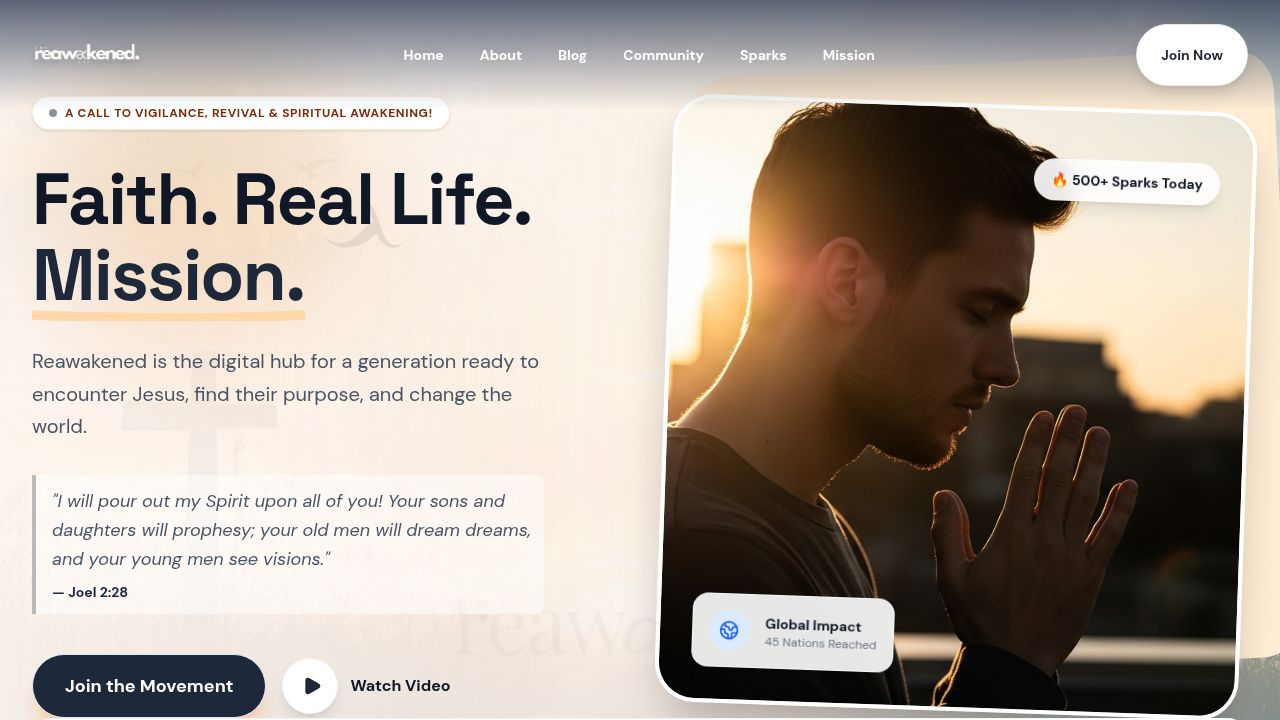
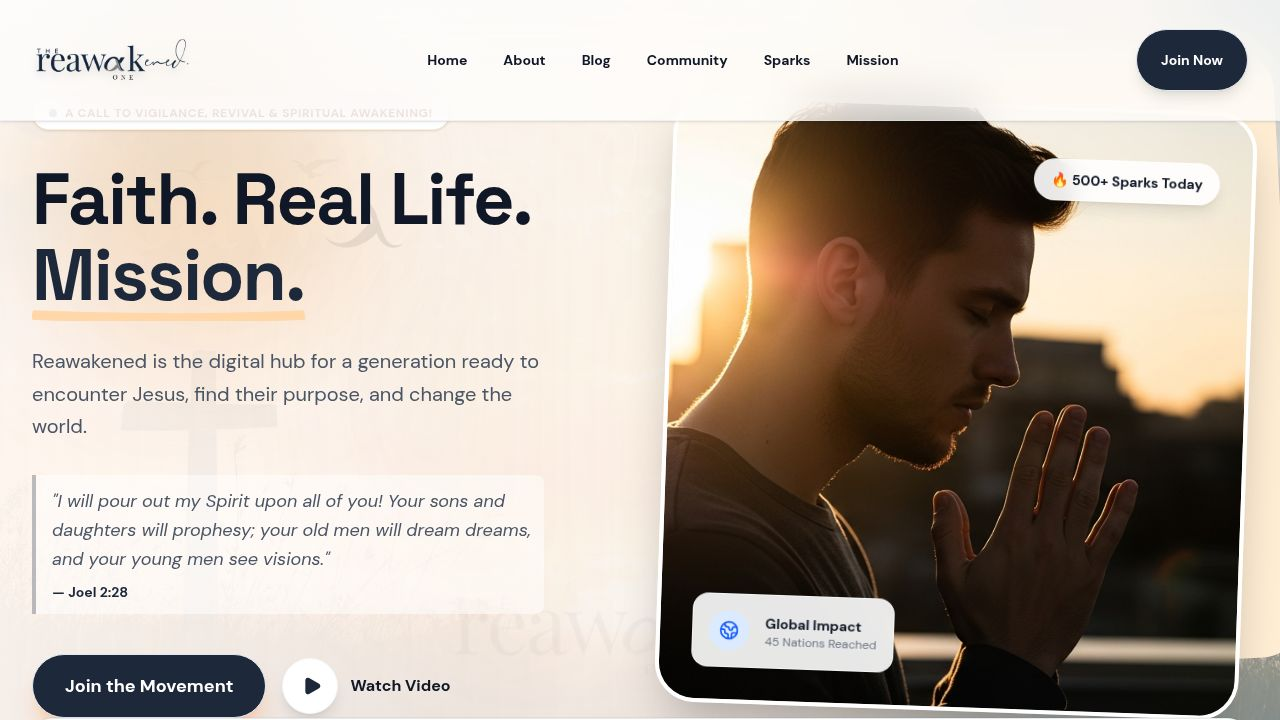
Update navigation bar appearance for different page themes
Adjust Navbar component logic to dynamically apply themes based on scrolled state and hero page type, utilizing distinct background, text, and logo styles for optimal contrast and aesthetic cohesion.

Replit-Commit-Author: Agent
Replit-Commit-Session-Id: c7d0516e-35f6-4570-8514-ca128c9cd4db
Replit-Commit-Checkpoint-Type: intermediate_checkpoint
Replit-Commit-Event-Id: d3afb9f8-36ea-470c-8e0d-c604b66cc569
Replit-Commit-Screenshot-Url: https://storage.googleapis.com/screenshot-production-us-central1/62a174e6-3f1f-4767-a721-073335d16cbb/c7d0516e-35f6-4570-8514-ca128c9cd4db/7xSECDs
Replit-Helium-Checkpoint-Created: true

Changed region(s): [[0.0, 0.0, 1.0, 0.1833]]

diff --git a/client/src/components/layout/Navbar.tsx b/client/src/components/layout/Navbar.tsx
@@ -13,8 +13,11 @@ export function Navbar() {
   const [scrolled, setScrolled] = useState(false);
   const [location] = useLocation();
 
-  // Check if current page has a dark hero section
-  const isDarkHeroPage = ["/", "/mission", "/sparks", "/vision", "/journeys", "/group-labs", "/coaching-labs"].includes(location);
+  // Pages with genuinely dark hero backgrounds (navy overlays, dark gradients)
+  const isDarkHeroPage = ["/mission", "/sparks", "/vision", "/journeys", "/group-labs", "/coaching-labs"].includes(location);
+  
+  // Pages with light hero backgrounds (cream, warm gradients) - use frosted glass
+  const isLightHeroPage = ["/", "/about", "/blog", "/community"].includes(location);
 
   useEffect(() => {
     const handleScroll = () => {
@@ -24,18 +27,25 @@ export function Navbar() {
     return () => window.removeEventListener("scroll", handleScroll);
   }, []);
 
-  // Determine which logo and text color to use
-  // If scrolled: White background -> Dark Logo, Dark Text
-  // If not scrolled & Dark Hero: Transparent background -> Light Logo, Light Text
-  // If not scrolled & Light Hero: Transparent background -> Dark Logo, Dark Text
+  // Determine navbar appearance:
+  // Scrolled: Always white background with dark logo/text
+  // Dark Hero (unscrolled): Navy glass with white logo/text
+  // Light Hero (unscrolled): Frosted white glass with dark logo/text
   
-  const showDarkNav = scrolled || !isDarkHeroPage;
-  const textColor = showDarkNav ? "text-gray-900" : "text-white";
-  const hoverColor = showDarkNav ? "hover:text-primary hover:bg-gray-100" : "hover:text-white hover:bg-white/10";
-  const currentLogo = showDarkNav ? logoDark : logoLight;
+  const useDarkTheme = !scrolled && isDarkHeroPage;
+  const textColor = useDarkTheme ? "text-white" : "text-gray-900";
+  const hoverColor = useDarkTheme ? "hover:text-white hover:bg-white/10" : "hover:text-primary hover:bg-gray-100";
+  const currentLogo = useDarkTheme ? logoLight : logoDark;
+  
+  // Background styles based on state
+  const getNavBackground = () => {
+    if (scrolled) return 'bg-white/95 backdrop-blur-md shadow-sm py-4';
+    if (isDarkHeroPage) return 'bg-[#1a2744]/60 backdrop-blur-xl border-b border-white/10 shadow-lg py-5';
+    return 'bg-white/70 backdrop-blur-xl border-b border-gray-200/50 shadow-sm py-5';
+  };
 
   return (
-    <nav className={`fixed top-0 left-0 right-0 z-50 transition-all duration-300 ${scrolled ? 'bg-white/95 backdrop-blur-md shadow-sm py-4' : 'bg-[#1a2744]/50 backdrop-blur-xl border-b border-white/10 shadow-lg py-6'}`}>
+    <nav className={`fixed top-0 left-0 right-0 z-50 transition-all duration-300 ${getNavBackground()}`}>
       <div className="max-w-7xl mx-auto px-4 sm:px-6 lg:px-8">
         <div className="flex items-center justify-between">
           <div className="flex-shrink-0">
@@ -62,7 +72,7 @@ export function Navbar() {
           </div>
 
           <div className="hidden md:block">
-            <Button className={`${showDarkNav ? 'bg-primary text-white hover:bg-primary/90' : 'bg-white text-primary hover:bg-gray-100'} font-bold px-6 py-5 rounded-full shadow-lg transition-all hover:scale-105`}>
+            <Button className={`${useDarkTheme ? 'bg-white text-primary hover:bg-gray-100' : 'bg-primary text-white hover:bg-primary/90'} font-bold px-6 py-5 rounded-full shadow-lg transition-all hover:scale-105`}>
               Join Now
             </Button>
           </div>
